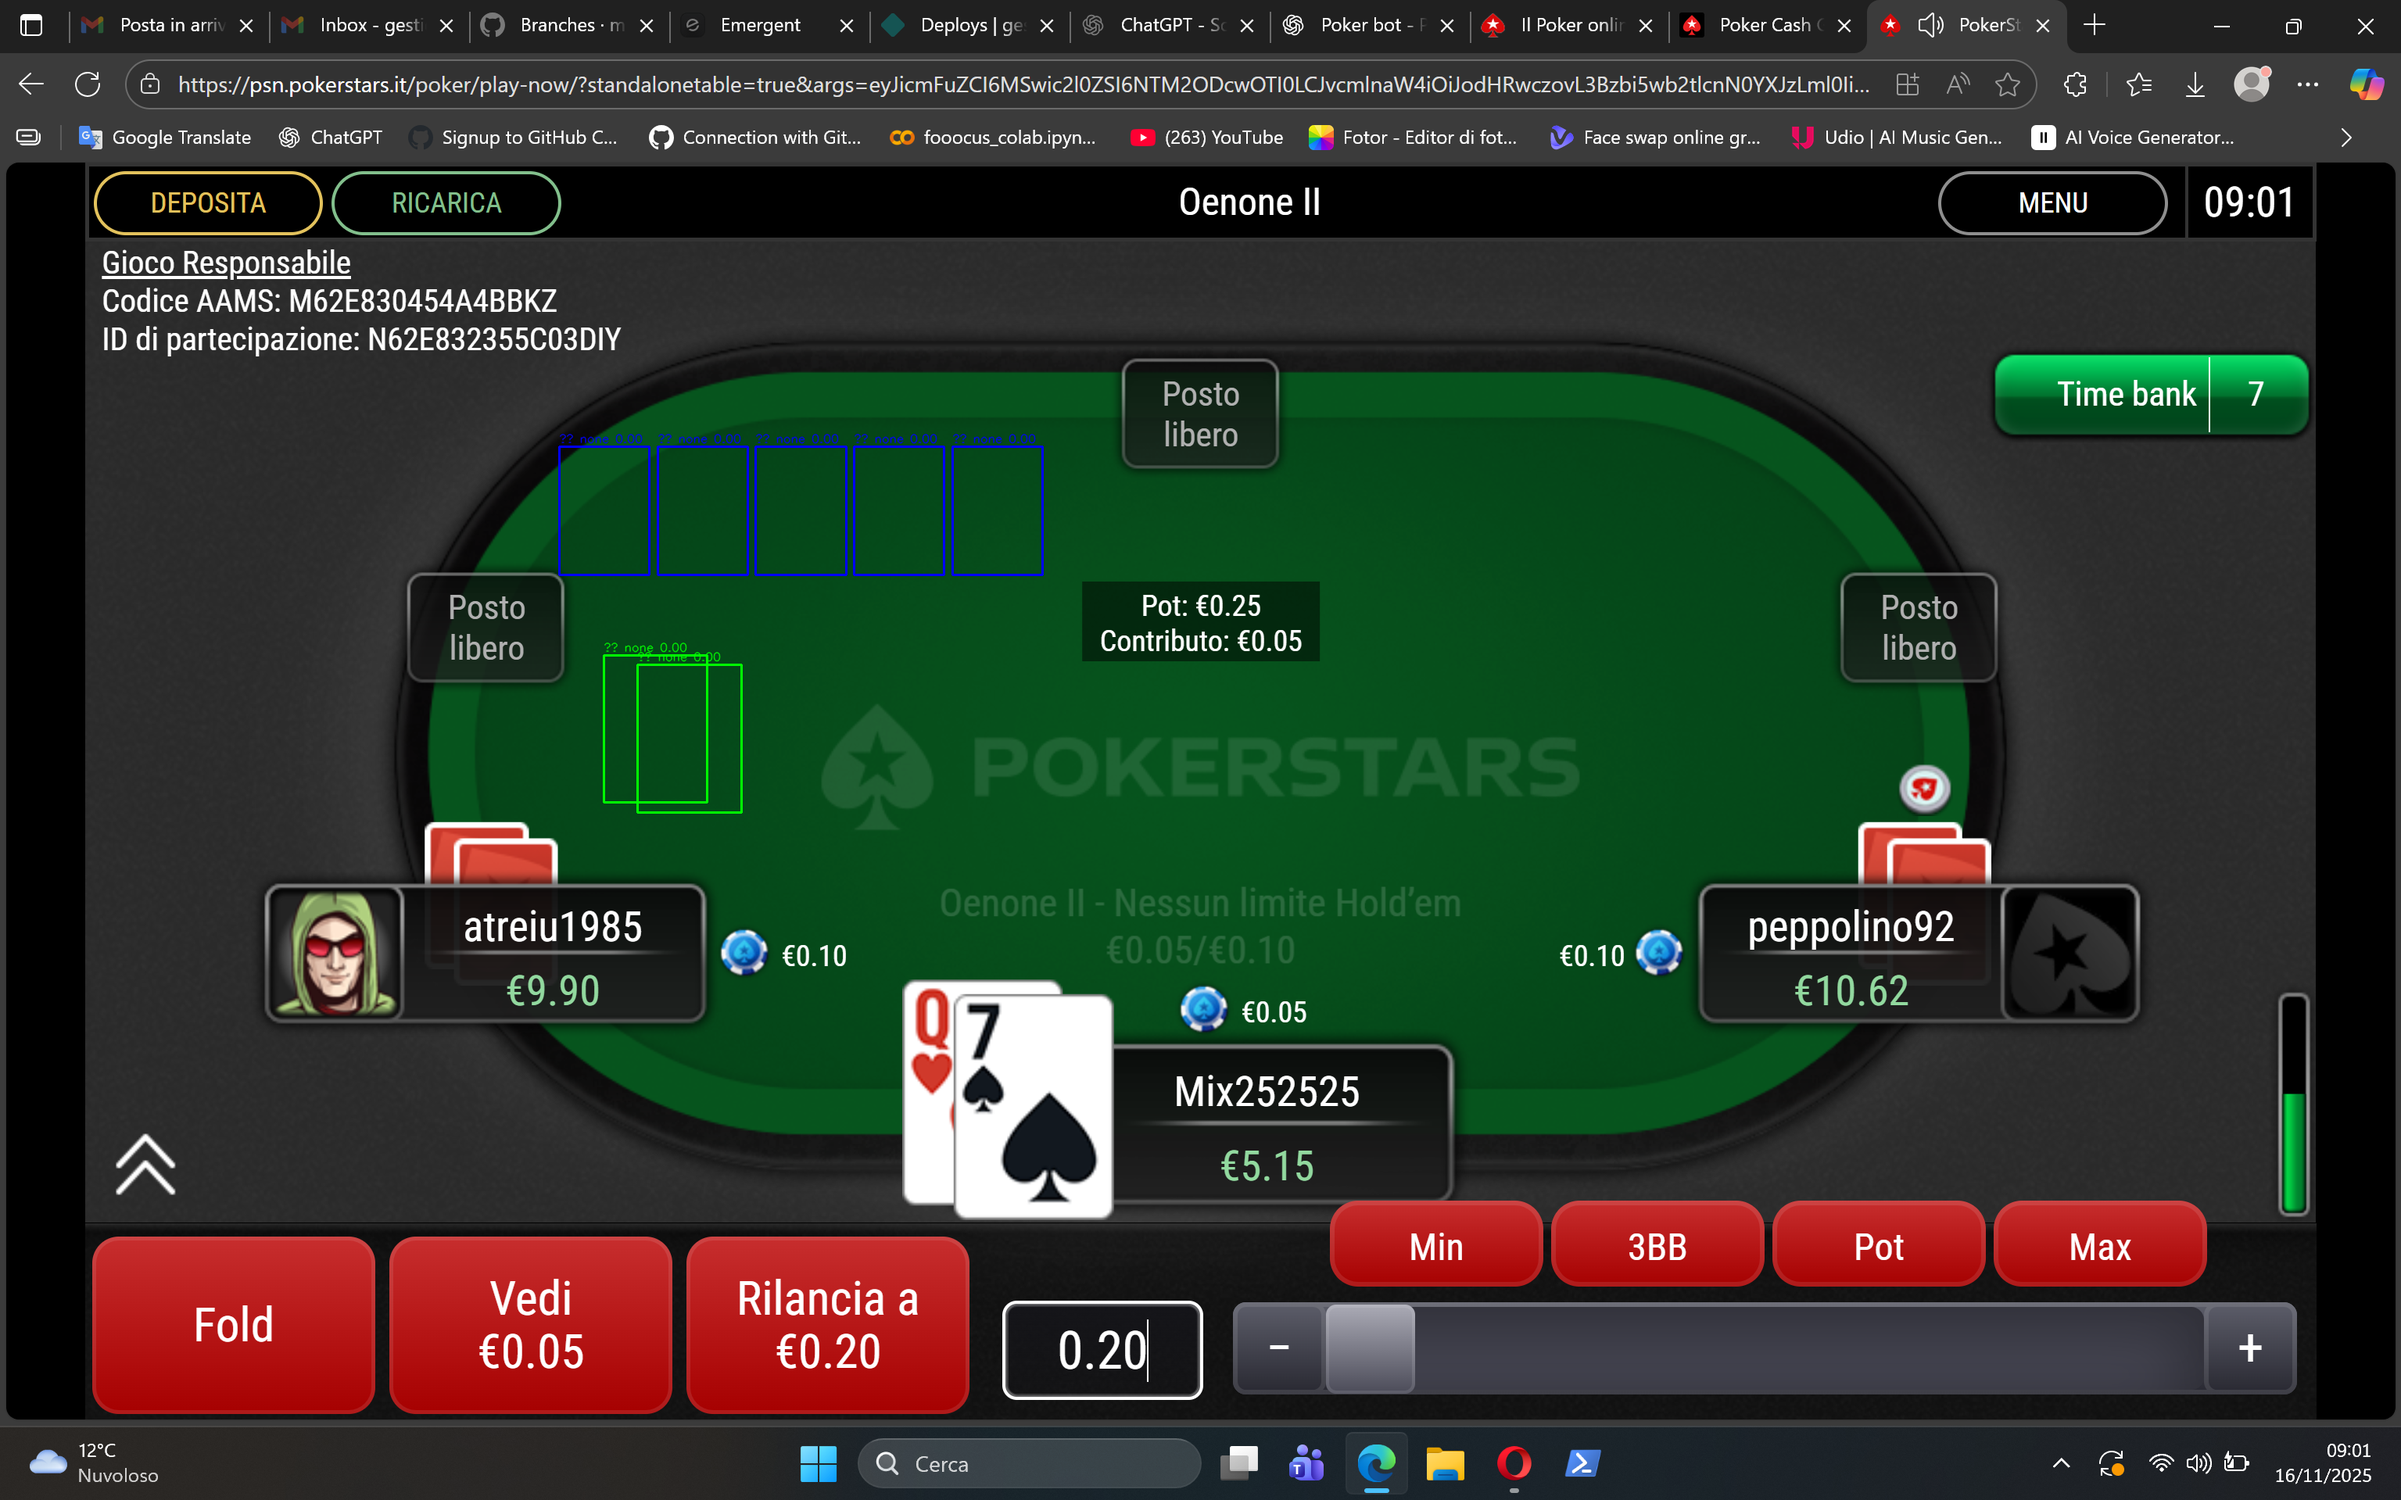
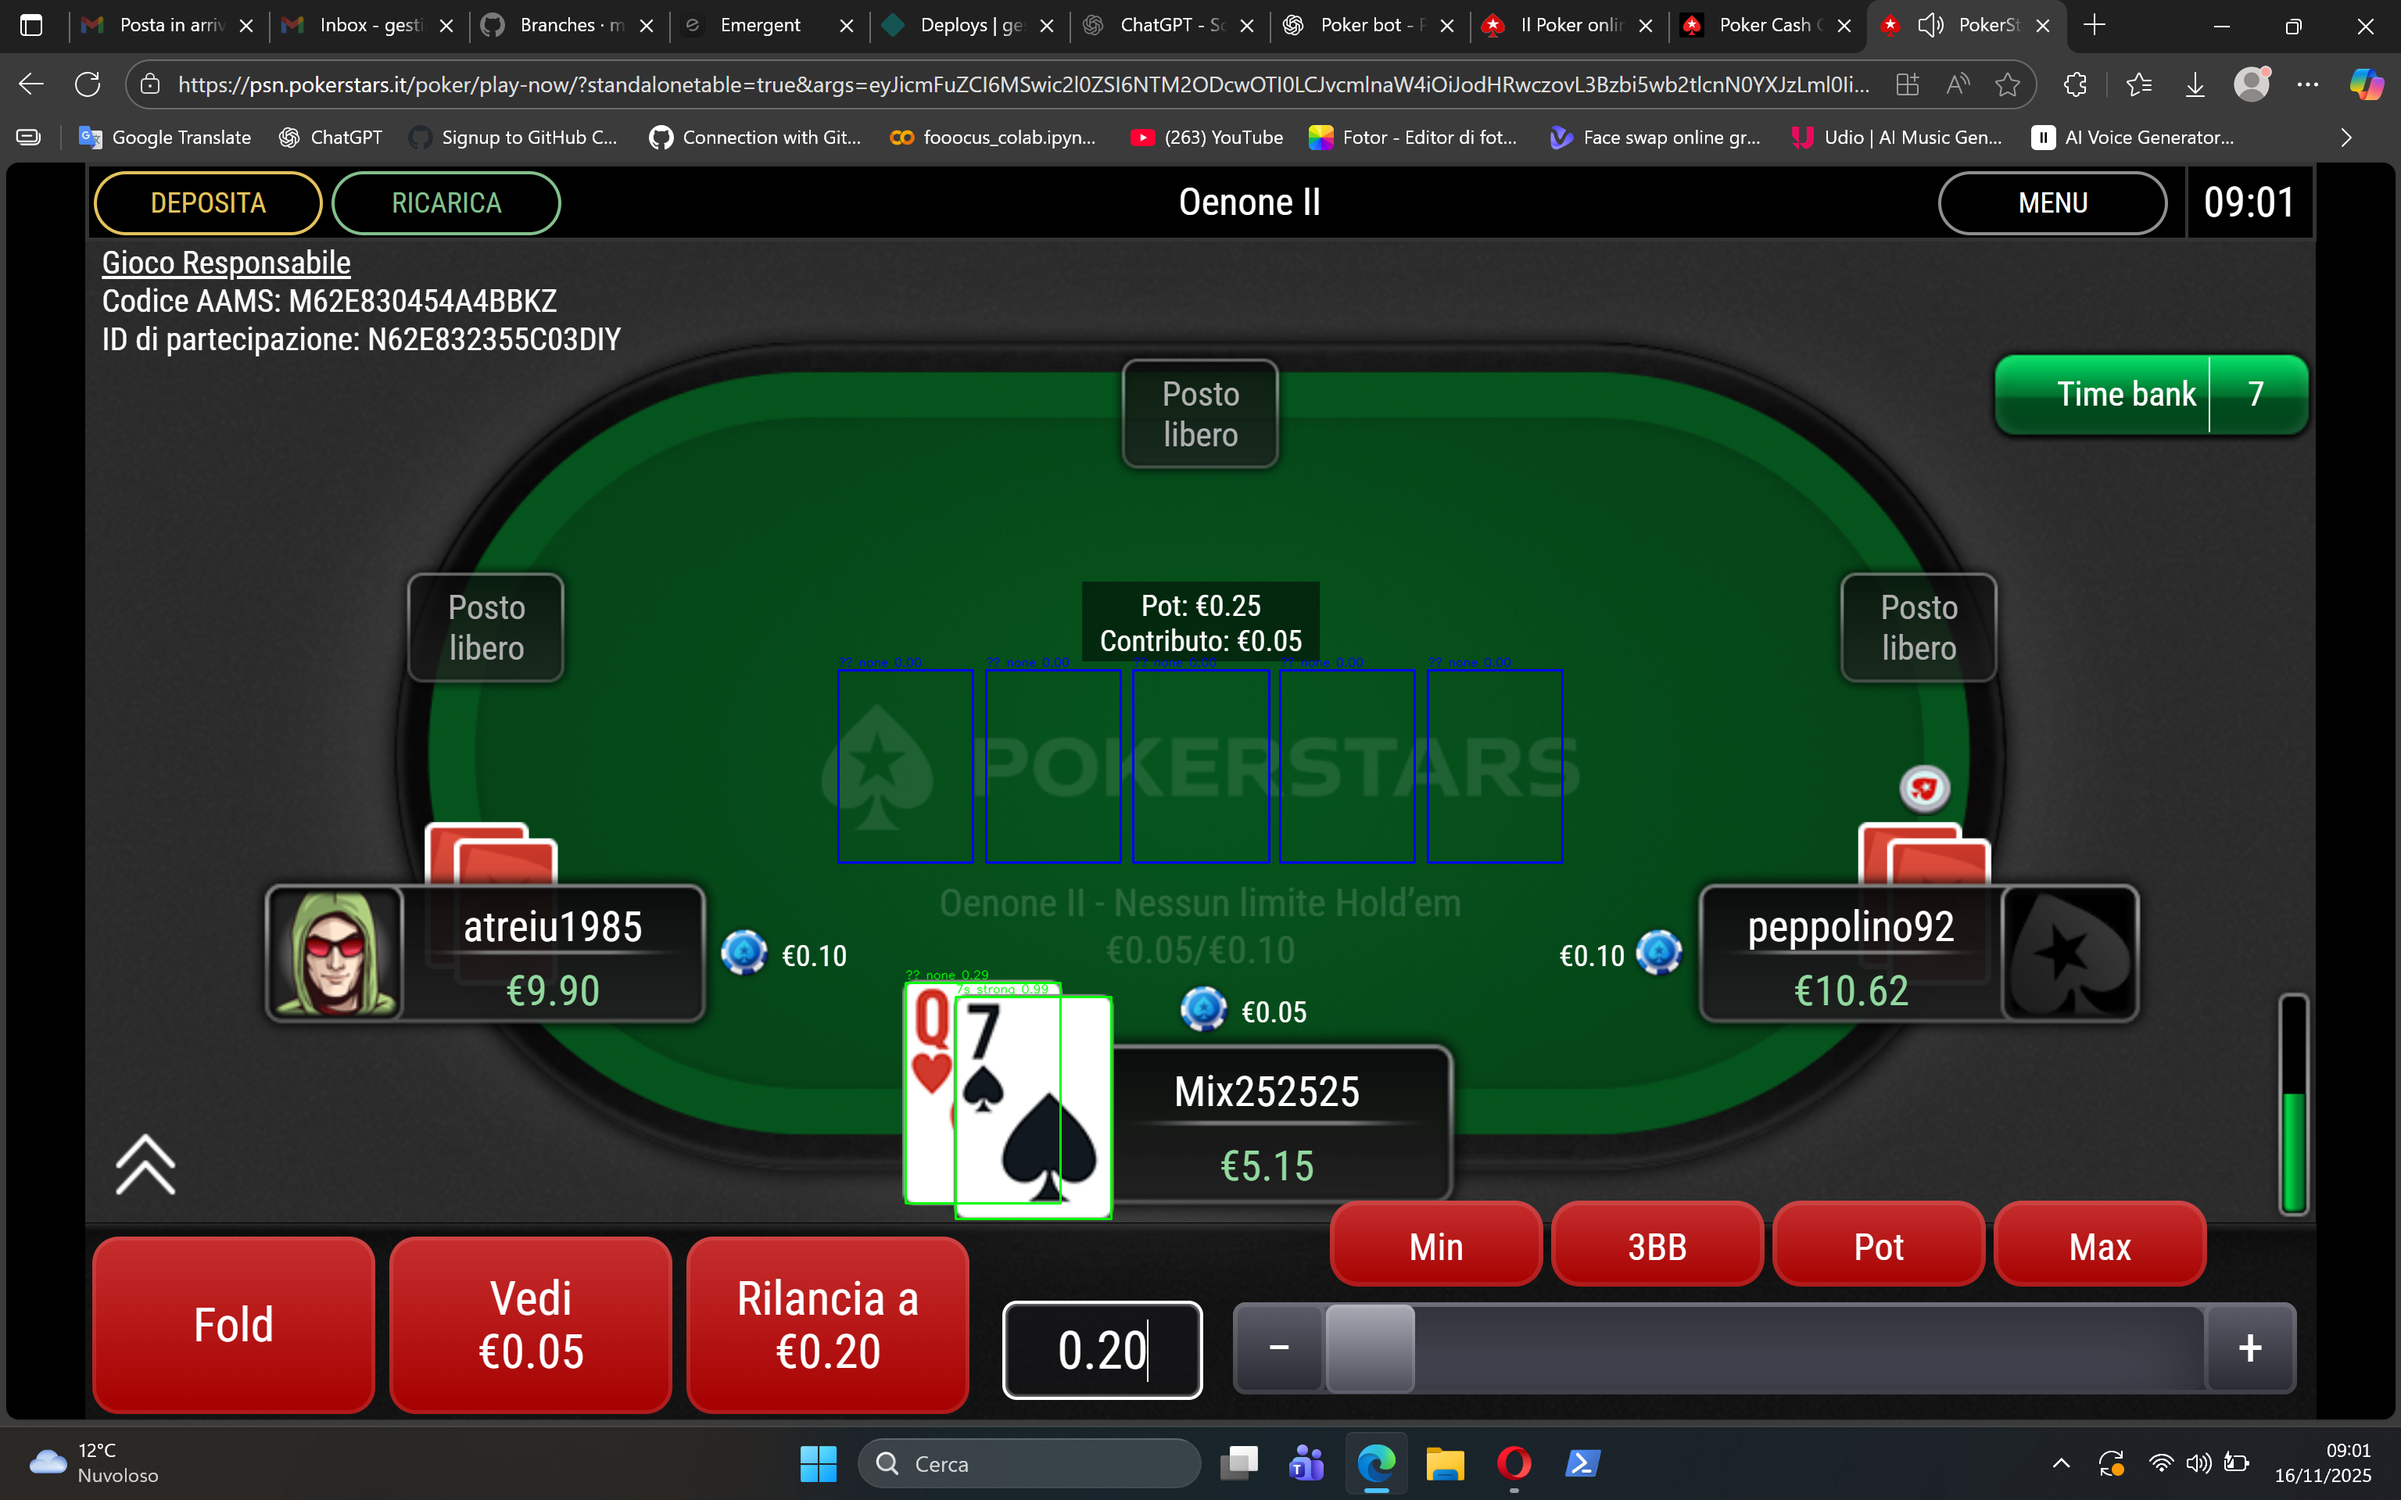
auto-commit for ad53c78e-5673-46e1-a312-856371198bd2

diff --git a/backend/pokerstars_layout_real.py b/backend/pokerstars_layout_real.py
@@ -5,32 +5,38 @@ POKERSTARS LAYOUT - COORDINATE REALI
 
 ORDINE CAPO: Coordinate estratte da screenshot PokerStars reali.
 
-Risoluzione: 2048×1279 (screenshot browser PokerStars)
+Risoluzione base: 2048×1279 (screenshot browser PokerStars)
 Origine: top-left (0,0)
 
 Formato: (x, y, w, h) in pixel
+
+NOTA: Se lo screenshot reale ha una risoluzione diversa ma stesso aspect ratio,
+le coordinate vengono scalate automaticamente rispetto alla risoluzione base.
 """
 
 import cv2
 from typing import Dict, List, Tuple
 from card_recognition_fullcard import FullCardRecognizer
 
+# Risoluzione base per cui sono state misurate le coordinate
+BASE_WIDTH = 2048
+BASE_HEIGHT = 1279
+
 
 class PokerStarsLayout2048x1279:
-    """
-    Layout REALE per PokerStars screenshot 2048×1279.
-    
+    """Layout REALE per PokerStars screenshot 2048×1279.
+
     ORDINE CAPO: Coordinate misurate da screenshot live.
     """
-    
-    def __init__(self):
+
+    def __init__(self) -> None:
         # Hero cards (2 carte in basso)
         # Ordine: sinistra → destra
         self.hero_cards = [
             (772, 838, 132, 188),   # hero[0] - carta sinistra
             (815, 850, 133, 189),   # hero[1] - carta destra
         ]
-        
+
         # Board cards (5 carte al centro)
         # Ordine: sinistra → destra
         self.board_cards = [
@@ -42,19 +48,48 @@ class PokerStarsLayout2048x1279:
         ]
 
 
+def _scale_bbox(
+    bbox: Tuple[int, int, int, int],
+    scale_x: float,
+    scale_y: float,
+    max_w: int,
+    max_h: int,
+) -> Tuple[int, int, int, int]:
+    """Scala una bbox dalla risoluzione base a quella reale dello screenshot.
+
+    Mantiene la bbox entro i limiti dell'immagine.
+    """
+    x, y, w, h = bbox
+
+    x = int(round(x * scale_x))
+    y = int(round(y * scale_y))
+    w = int(round(w * scale_x))
+    h = int(round(h * scale_y))
+
+    # Clamping sui limiti immagine
+    x = max(0, min(x, max_w - 1))
+    y = max(0, min(y, max_h - 1))
+    w = max(1, min(w, max_w - x))
+    h = max(1, min(h, max_h - y))
+
+    return x, y, w, h
+
+
 def recognize_table_cards(
     screen_bgr,
     layout: PokerStarsLayout2048x1279,
-    recognizer: FullCardRecognizer
+    recognizer: FullCardRecognizer,
 ) -> Dict:
-    """
-    ORDINE CAPO: Riconosce tutte le 7 carte da screenshot tavolo.
-    
+    """ORDINE CAPO: Riconosce tutte le 7 carte da screenshot tavolo.
+
     Args:
-        screen_bgr: Screenshot BGR del tavolo
-        layout: Layout con coordinate
+        screen_bgr: Screenshot BGR del tavolo (qualsiasi risoluzione)
+        layout: Layout con coordinate misurate su 2048×1279
         recognizer: FullCardRecognizer inizializzato
-        
+
+    La funzione adatta automaticamente le coordinate se lo screenshot
+    non è esattamente 2048×1279 ma mantiene lo stesso aspect ratio.
+
     Returns:
         {
             "hero": [
@@ -69,62 +104,72 @@ def recognize_table_cards(
     """
     # Convert to grayscale
     gray = cv2.cvtColor(screen_bgr, cv2.COLOR_BGR2GRAY)
-    
-    def crop_and_recognize(x, y, w, h):
+    h, w = gray.shape[:2]
+
+    # Fattori di scala rispetto alla risoluzione base
+    scale_x = w / BASE_WIDTH
+    scale_y = h / BASE_HEIGHT
+
+    def crop_and_recognize(x: int, y: int, w_box: int, h_box: int):
         """Helper: crop + recognize"""
-        crop = gray[y:y+h, x:x+w]
+        crop = gray[y:y + h_box, x:x + w_box]
         return recognizer.recognize_card(crop)
-    
-    results = {
+
+    results: Dict[str, List[Dict]] = {
         "hero": [],
-        "board": []
+        "board": [],
     }
-    
-    # Recognize hero cards
-    for (x, y, w, h) in layout.hero_cards:
-        code, score, conf = crop_and_recognize(x, y, w, h)
-        results["hero"].append({
-            "code": code,
-            "score": score,
-            "conf": conf,
-            "bbox": (x, y, w, h),
-        })
-    
-    # Recognize board cards
-    for (x, y, w, h) in layout.board_cards:
-        code, score, conf = crop_and_recognize(x, y, w, h)
-        results["board"].append({
-            "code": code,
-            "score": score,
-            "conf": conf,
-            "bbox": (x, y, w, h),
-        })
-    
+
+    # Recognize hero cards (verde nel debug overlay)
+    for (x, y, w_box, h_box) in layout.hero_cards:
+        sx, sy, sw, sh = _scale_bbox((x, y, w_box, h_box), scale_x, scale_y, w, h)
+        code, score, conf = crop_and_recognize(sx, sy, sw, sh)
+        results["hero"].append(
+            {
+                "code": code,
+                "score": score,
+                "conf": conf,
+                "bbox": (sx, sy, sw, sh),
+            }
+        )
+
+    # Recognize board cards (blu nel debug overlay)
+    for (x, y, w_box, h_box) in layout.board_cards:
+        sx, sy, sw, sh = _scale_bbox((x, y, w_box, h_box), scale_x, scale_y, w, h)
+        code, score, conf = crop_and_recognize(sx, sy, sw, sh)
+        results["board"].append(
+            {
+                "code": code,
+                "score": score,
+                "conf": conf,
+                "bbox": (sx, sy, sw, sh),
+            }
+        )
+
     return results
 
 
 def visualize_recognition(
     screen_bgr,
     results: Dict,
-    output_path: str = None
+    output_path: str | None = None,
 ):
-    """
-    Visualizza risultati riconoscimento su screenshot.
-    
+    """Visualizza risultati riconoscimento su screenshot.
+
     Args:
         screen_bgr: Screenshot originale
         results: Output di recognize_table_cards()
         output_path: Dove salvare (opzionale)
     """
     vis = screen_bgr.copy()
-    
+
     # Hero cards (verde)
     for i, card in enumerate(results["hero"]):
-        x, y, w, h = card["bbox"]
+        x, y, w_box, h_box = card["bbox"]
         code = card["code"] or "???"
         conf = card["conf"]
         score = card["score"]
-        
+
         # Colore box basato su confidenza
         if conf == "strong":
             color = (0, 255, 0)  # Verde
@@ -132,21 +177,28 @@ def visualize_recognition(
             color = (0, 255, 255)  # Giallo
         else:
             color = (0, 0, 255)  # Rosso
-        
-        cv2.rectangle(vis, (x, y), (x+w, y+h), color, 3)
-        
+
+        cv2.rectangle(vis, (x, y), (x + w_box, y + h_box), color, 3)
+
         # Label
         label = f"H{i+1}: {code} ({score:.2f})"
-        cv2.putText(vis, label, (x, y-10),
-                   cv2.FONT_HERSHEY_SIMPLEX, 0.6, color, 2)
-    
+        cv2.putText(
+            vis,
+            label,
+            (x, y - 10),
+            cv2.FONT_HERSHEY_SIMPLEX,
+            0.6,
+            color,
+            2,
+        )
+
     # Board cards (cyan)
     for i, card in enumerate(results["board"]):
-        x, y, w, h = card["bbox"]
+        x, y, w_box, h_box = card["bbox"]
         code = card["code"] or "???"
         conf = card["conf"]
         score = card["score"]
-        
+
         # Colore box basato su confidenza
         if conf == "strong":
             color = (255, 255, 0)  # Cyan
@@ -154,17 +206,24 @@ def visualize_recognition(
             color = (0, 255, 255)  # Giallo
         else:
             color = (0, 0, 255)  # Rosso
-        
-        cv2.rectangle(vis, (x, y), (x+w, y+h), color, 3)
-        
+
+        cv2.rectangle(vis, (x, y), (x + w_box, y + h_box), color, 3)
+
         # Label
         label = f"B{i+1}: {code} ({score:.2f})"
-        cv2.putText(vis, label, (x, y-10),
-                   cv2.FONT_HERSHEY_SIMPLEX, 0.6, color, 2)
-    
+        cv2.putText(
+            vis,
+            label,
+            (x, y - 10),
+            cv2.FONT_HERSHEY_SIMPLEX,
+            0.6,
+            color,
+            2,
+        )
+
     if output_path:
         cv2.imwrite(output_path, vis)
-    
+
     return vis
 
 
@@ -173,20 +232,48 @@ def visualize_recognition(
 # ============================================================================
 
 if __name__ == "__main__":
-    print("\n" + "="*80)
-    print("🎯 POKERSTARS LAYOUT - COORDINATE REALI")
-    print("="*80 + "\n")
-    
+    import sys
+    from pathlib import Path
+
+    print("\n" + "=" * 80)
+    print("🎯 POKERSTARS LAYOUT - COORDINATE REALI (SCALING TEST)")
+    print("=" * 80 + "\n")
+
     layout = PokerStarsLayout2048x1279()
-    
+
     print(f"Hero cards: {len(layout.hero_cards)}")
-    for i, (x, y, w, h) in enumerate(layout.hero_cards):
-        print(f"  H{i+1}: x={x:4d} y={y:4d} w={w:3d} h={h:3d}")
-    
+    for i, (x, y, w_box, h_box) in enumerate(layout.hero_cards):
+        print(f"  H{i+1}: x={x:4d} y={y:4d} w={w_box:3d} h={h_box:3d}")
+
     print(f"\nBoard cards: {len(layout.board_cards)}")
-    for i, (x, y, w, h) in enumerate(layout.board_cards):
-        print(f"  B{i+1}: x={x:4d} y={y:4d} w={w:3d} h={h:3d}")
-    
-    print("\n" + "="*80)
-    print("✅ Layout pronto per tavolo vero!")
-    print("="*80 + "\n")
+    for i, (x, y, w_box, h_box) in enumerate(layout.board_cards):
+        print(f"  B{i+1}: x={x:4d} y={y:4d} w={w_box:3d} h={h_box:3d}")
+
+    # Test rapido opzionale con uno screenshot se passato da CLI
+    if len(sys.argv) > 1:
+        img_path = Path(sys.argv[1])
+        print(f"\nLoading screenshot: {img_path}")
+        img = cv2.imread(str(img_path))
+        if img is None:
+            print("❌ Cannot read image")
+            sys.exit(1)
+
+        rec = FullCardRecognizer()
+        if not rec.templates:
+            print("❌ No templates loaded")
+            sys.exit(1)
+
+        res = recognize_table_cards(img, layout, rec)
+        print("\nHERO:")
+        for c in res["hero"]:
+            print(c)
+        print("\nBOARD:")
+        for c in res["board"]:
+            print(c)
+
+        out = visualize_recognition(img, res, "debug_pokerstars_layout.png")
+        print("\n✅ Saved debug overlay: debug_pokerstars_layout.png")
+
+    print("\n" + "=" * 80)
+    print("✅ Layout pronto per tavolo vero (con scaling)!" )
+    print("=" * 80 + "\n")
